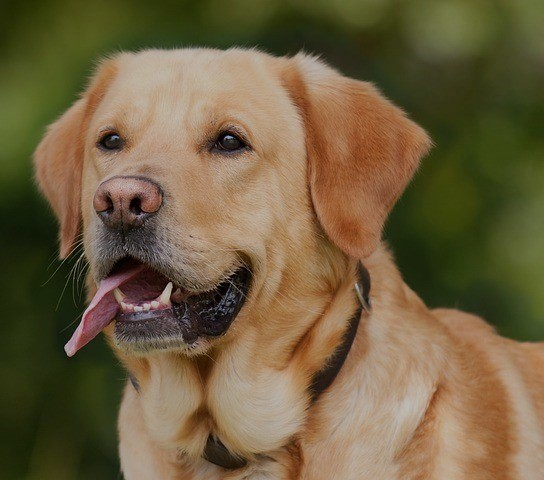
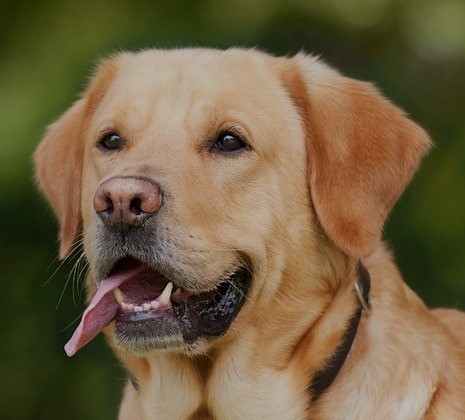
updating UI for Mobile Background selections

diff --git a/process.html b/process.html
@@ -508,7 +508,7 @@
                 class="btn primary_accent_btn mt-3 px-5"
                 id="threeSubjects"
                 onclick="threeSubjects(),totalPrice(),unhideColour()"
-                >I have a big Family, 3 for me!</a
+                >I have a big Family, 3+ for me!</a
               >
             </div>
           </div>
@@ -560,8 +560,8 @@
                   </div>
                   <h2 class="title pt-5 my-5 text-light">Black & White</h2>
                   <p class="text mb-5 pb-5 text-light">
-                    Have a beautiful Monochromatic painting <br />
-                    masterpiece created, bringing a certain elegance.
+                    Have a beautiful Monochromatic painted <br />
+                    masterpiece, bringing elegance.
                   </p>
                 </div>
                 <a
@@ -584,7 +584,7 @@
 
                   <h2 class="title pt-5 my-5 text-light">Full Colour</h2>
                   <p class="text mb-5 pb-5 text-light">
-                    Get a perfect colour rendition of your images, <br />colour
+                    Get a life like rendition of your image, <br />colour
                     matched in its full glory.
                   </p>
 
@@ -681,9 +681,7 @@
                     </h4>
                   </div>
 
-                  <h2 class="title pt-5 my-5 text-light">
-                    Full/ Complex Background
-                  </h2>
+                  <h2 class="title pt-5 my-5 text-light">Complex Background</h2>
                   <p class="text mb-5 pb-5 text-light">
                     If you want a detailed background/ forground <br />Just
                     click the button below.
@@ -1382,9 +1380,9 @@
                                   >Full Colour</label
                                 >
                               </div>
-                              <div
+                              <!-- <div
                                 class="form-check form-check-inline text-start ms-2"
-                              ></div>
+                              ></div> -->
                             </div>
                           </form>
                           <form
@@ -1398,7 +1396,7 @@
                             >
                             <div class="mt-2">
                               <div
-                                class="form-check form-check-inline text-start"
+                                class="form-check form-check-inline text-start ms-2 ms-md-2"
                               >
                                 <input
                                   class="form-check-input"
@@ -1415,7 +1413,7 @@
                                 >
                               </div>
                               <div
-                                class="form-check form-check-inline text-start ms-2"
+                                class="form-check form-check-inline text-start ms-1 ms-md-2"
                               >
                                 <input
                                   class="form-check-input"
@@ -1431,9 +1429,9 @@
                                   >Complex</label
                                 >
                               </div>
-                              <div
+                              <!-- <div
                                 class="form-check form-check-inline text-start ms-2"
-                              ></div>
+                              ></div> -->
                             </div>
                           </form>
                           <form
